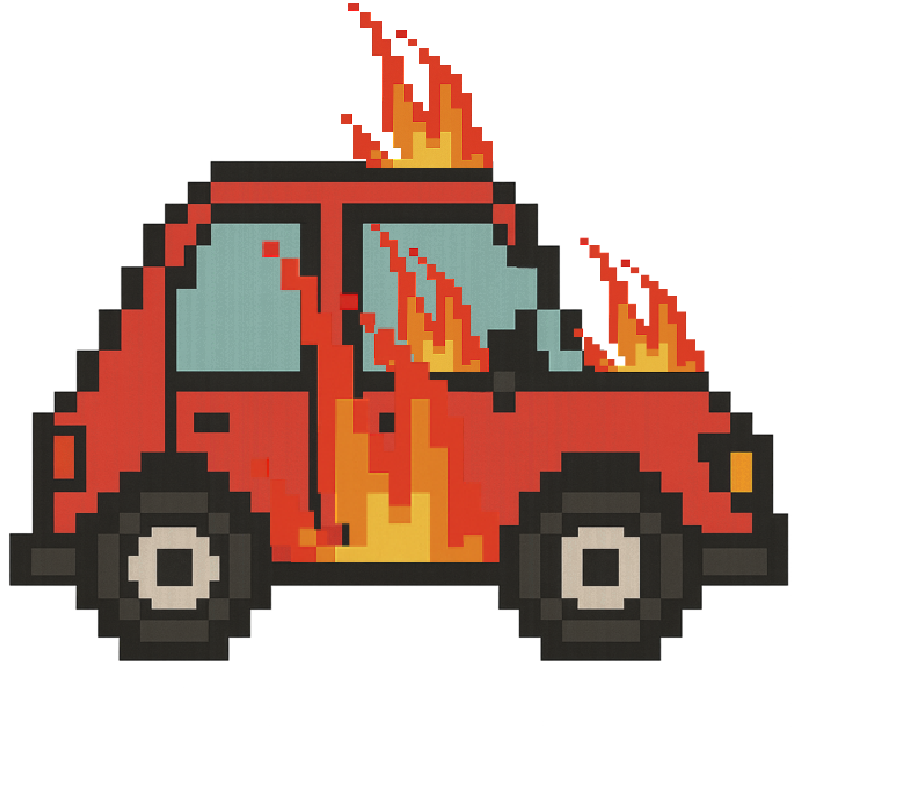
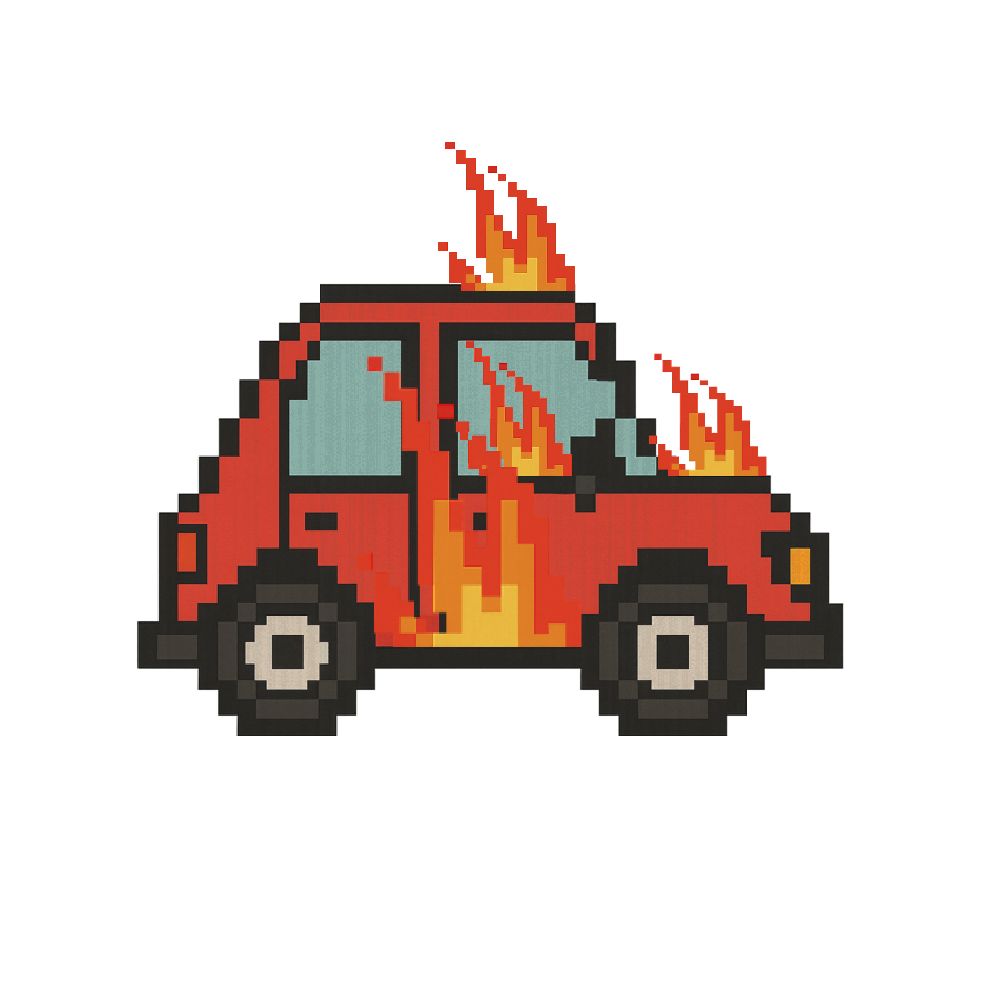
gazou

diff --git a/DxLib_TGS2025/Src/Object/car.cpp b/DxLib_TGS2025/Src/Object/car.cpp
@@ -155,12 +155,13 @@ void CarResourceInit(void)
 	car.lake_down_anim[5] = LoadGraph("Resource/images/car_inD_lake5.png");
 	car.lake_down_anim[6] = LoadGraph("Resource/images/car_inD_lake6.png");
 
-	car.boom_right_animtion[0] = LoadGraph("Resource/images/car2_right_boom0.png");
-	car.boom_right_animtion[1] = LoadGraph("Resource/images/car2_right_boom1.png");
-	car.boom_right_animtion[2] = LoadGraph("Resource/images/car2_right_boom2.png");
-	car.boom_right_animtion[3] = LoadGraph("Resource/images/fire_car_right_0.png");
-	car.boom_right_animtion[4] = LoadGraph("Resource/images/fire_car_right_1.png");
-	car.boom_right_animtion[5] = LoadGraph("Resource/images/fire_car_right_2.png");
+	car.boom_right_animtion[0] = LoadGraph("Resource/images/car2_right_boom_base.png");
+	car.boom_right_animtion[1] = LoadGraph("Resource/images/car2_right_boom0.png");
+	car.boom_right_animtion[2] = LoadGraph("Resource/images/car2_right_boom1.png");
+	car.boom_right_animtion[3] = LoadGraph("Resource/images/car2_right_boom2.png");
+	car.boom_right_animtion[4] = LoadGraph("Resource/images/fire_car_right_0.png");
+	car.boom_right_animtion[5] = LoadGraph("Resource/images/fire_car_right_1.png");
+	car.boom_right_animtion[6] = LoadGraph("Resource/images/fire_car_right_2.png");
 
 	car.boom_left_animtion[0] = LoadGraph("Resource/images/car2_left_boom0.png");
 	car.boom_left_animtion[1] = LoadGraph("Resource/images/car2_left_boom1.png");
@@ -215,7 +216,7 @@ void CarManagerUpdate(void)
 void CarDraw(void)
 {
 	//車の描画
-	if (car.lake_flag == false && car.ivy_flag == false)
+	if (car.lake_flag == false && car.ivy_flag == false && car.boom_flag==false)
 	{
 		DrawRotaGraph(car.position.x, car.position.y, 0.1, 0.0, car.animation, TRUE);
 	}
